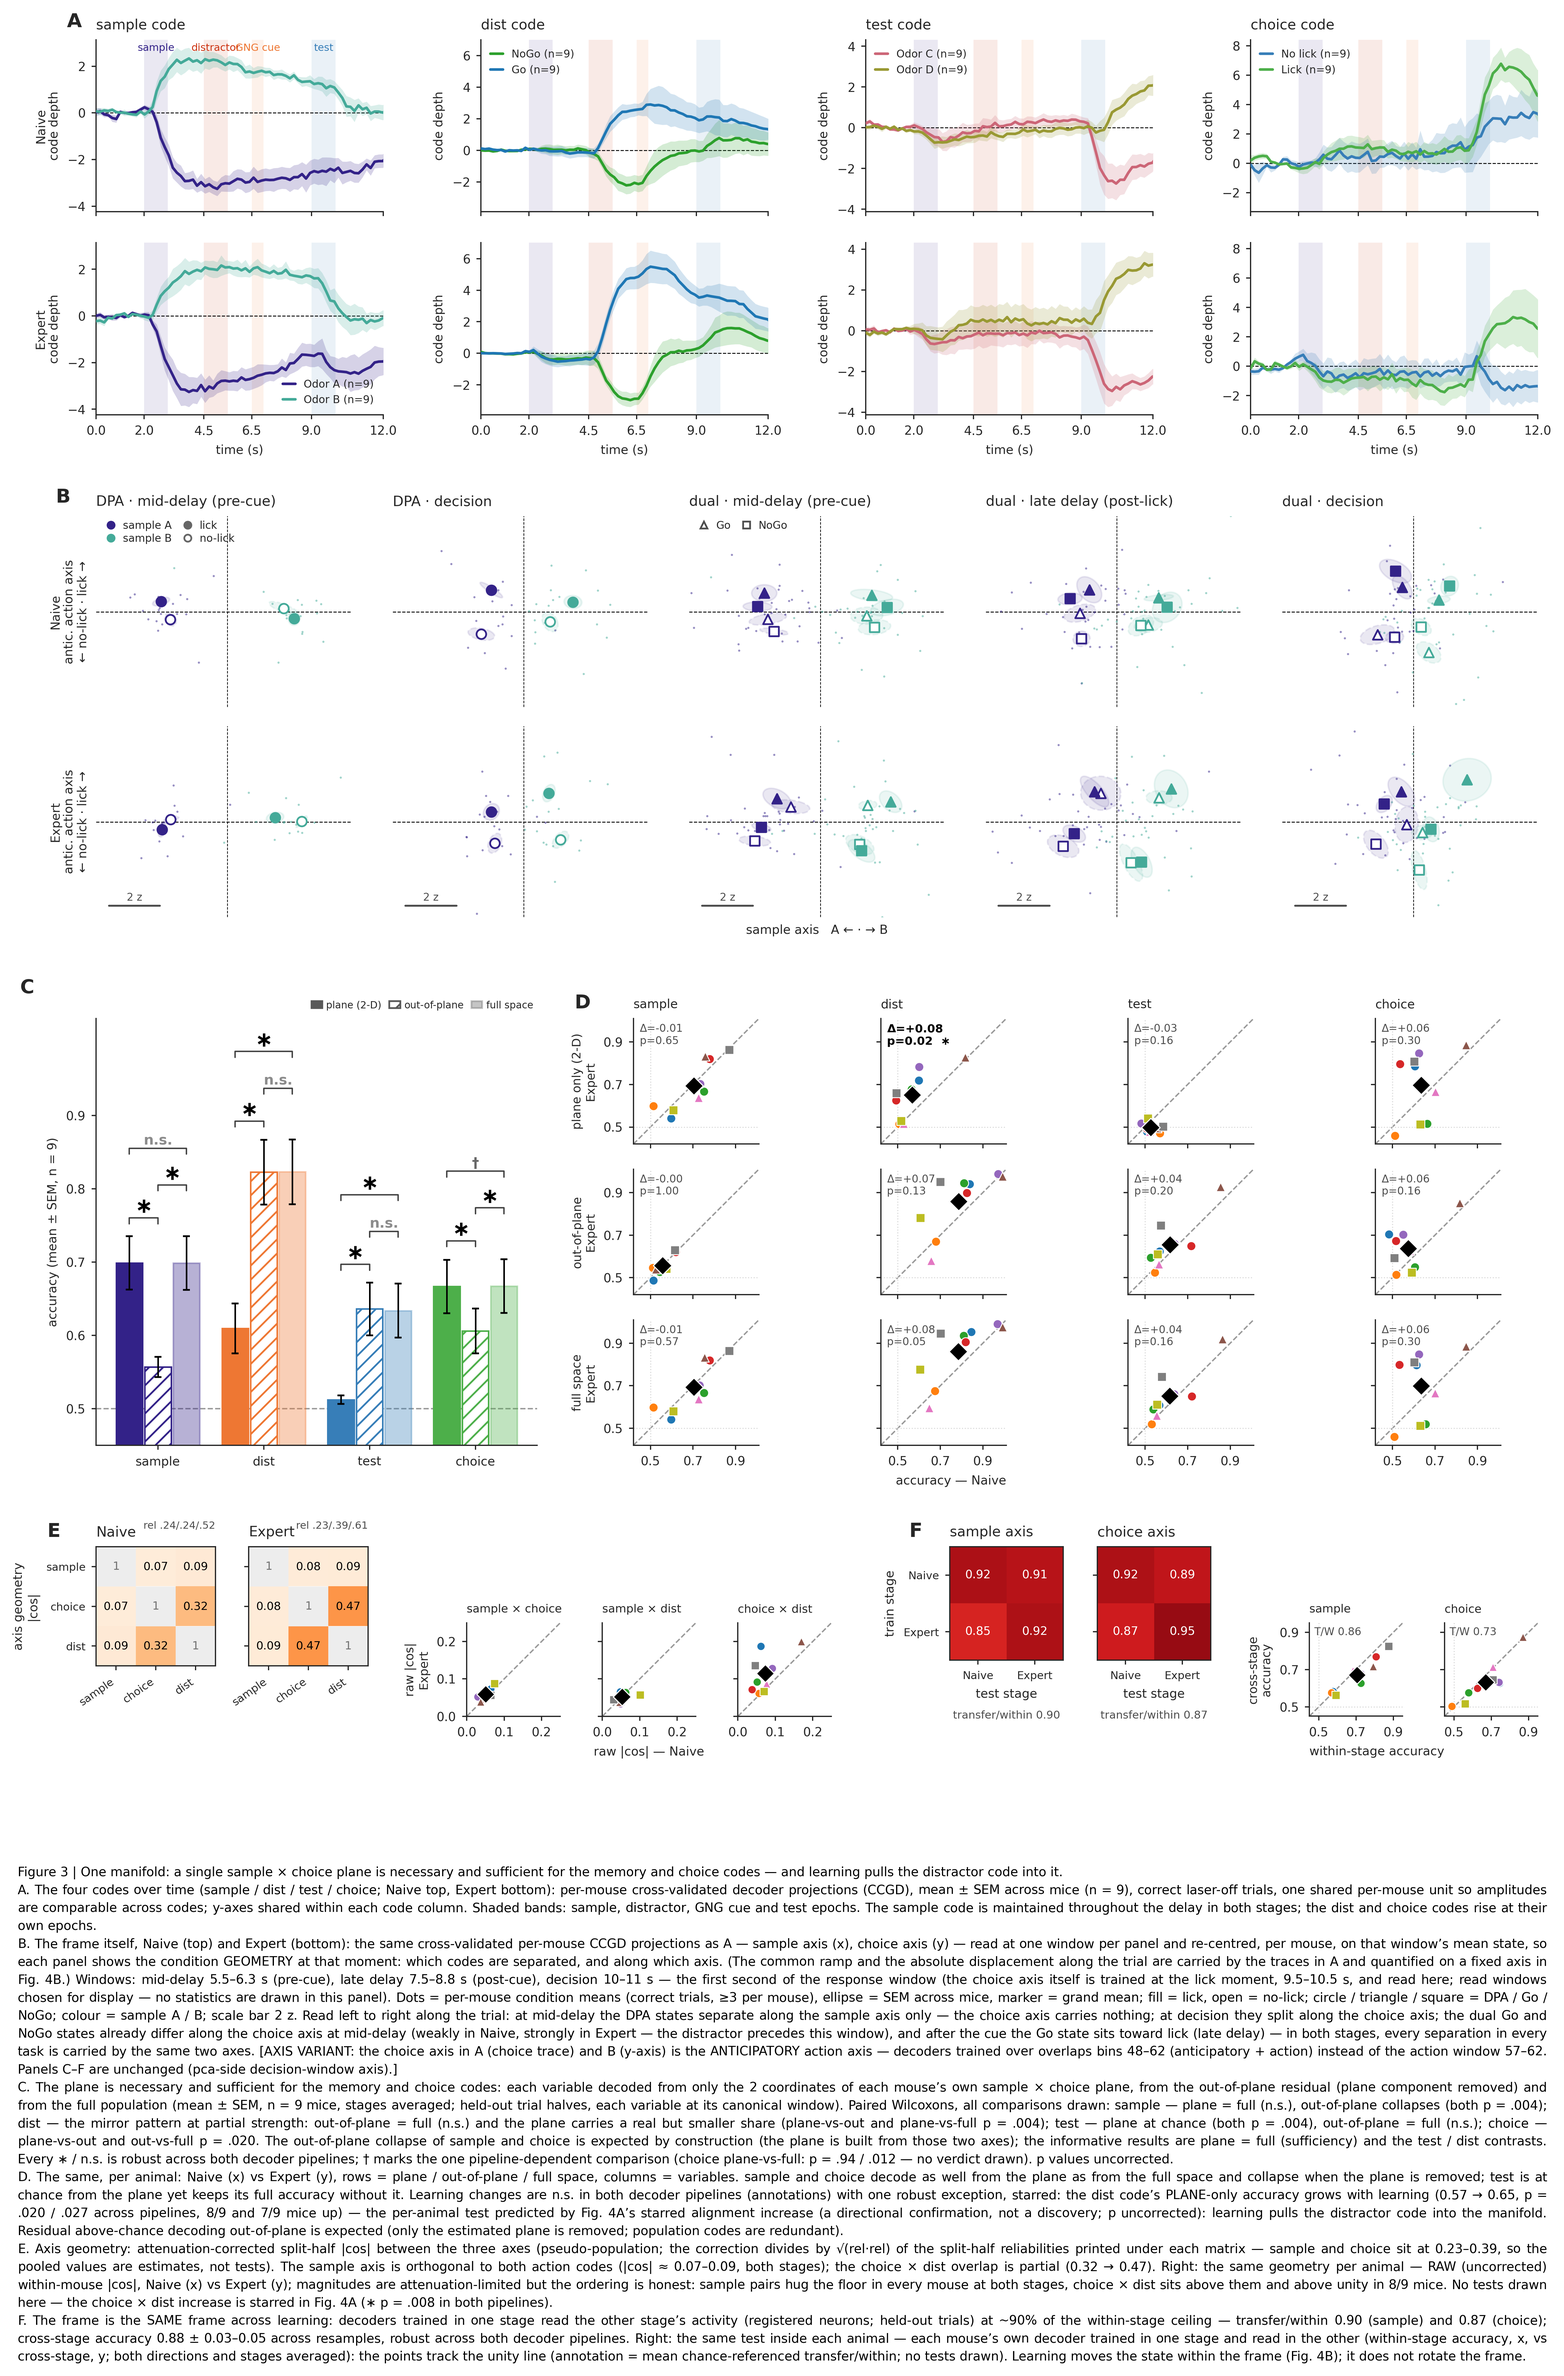
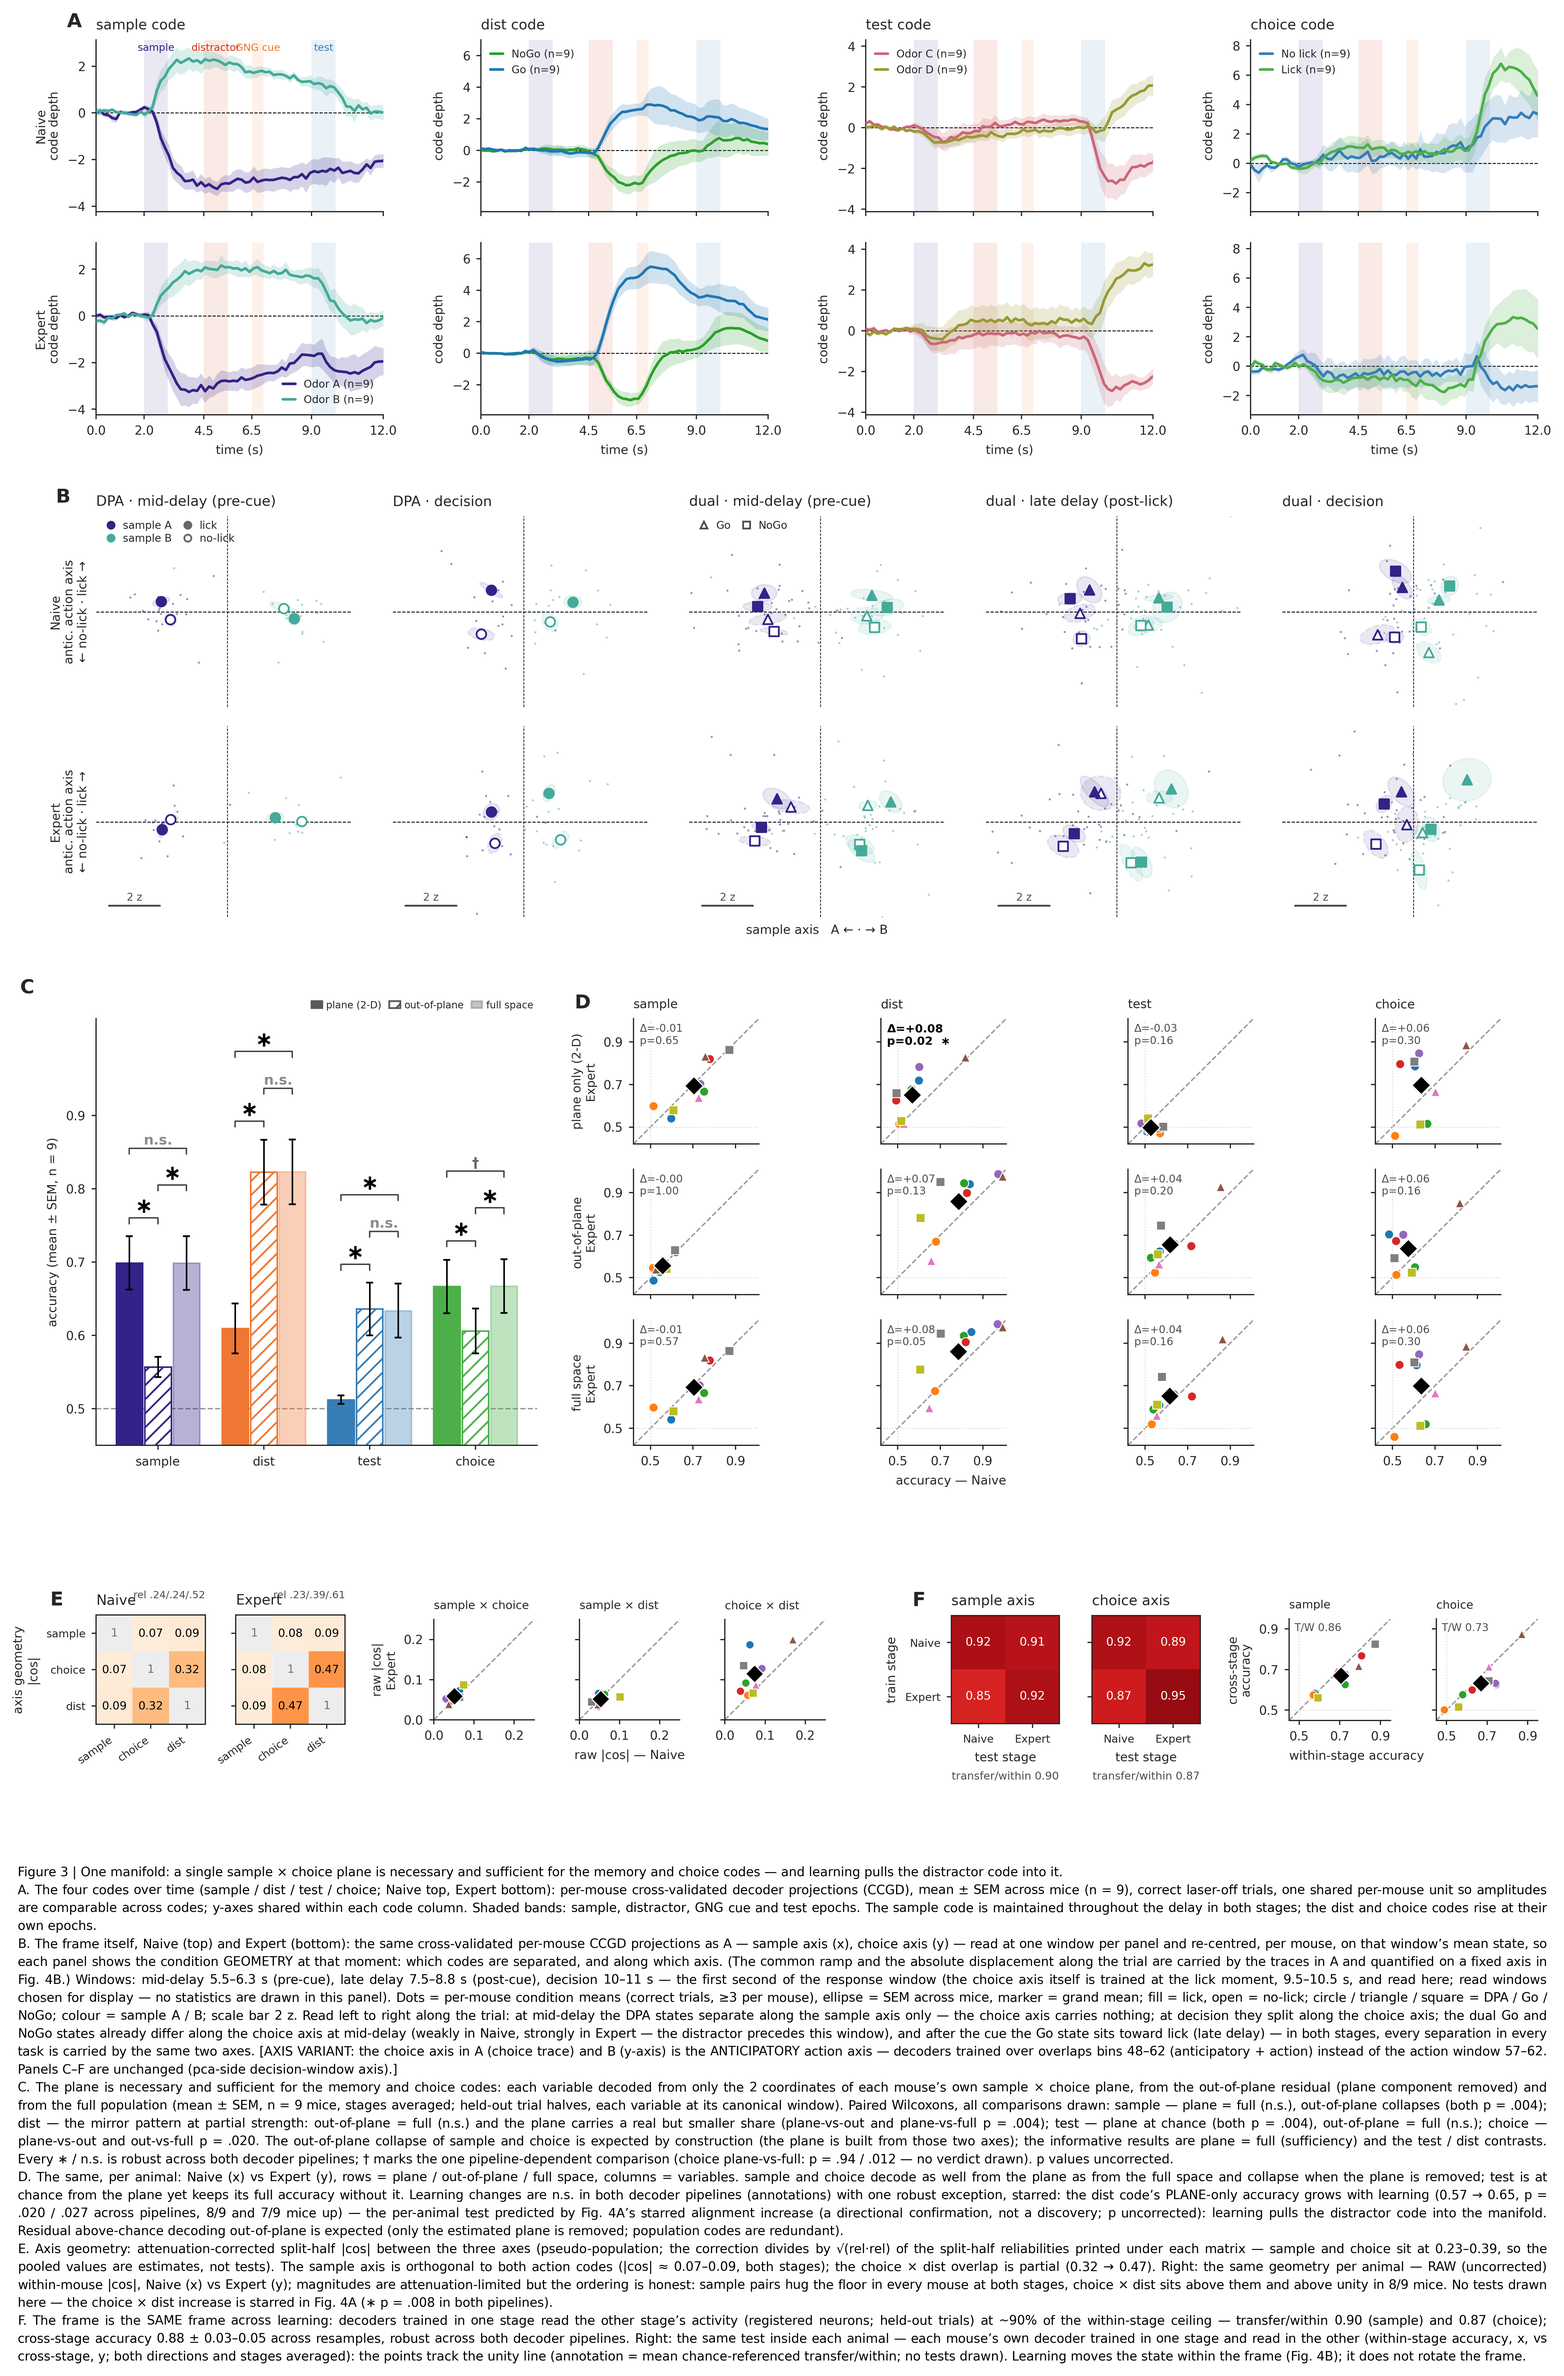
Fig 3 bottom row: centre matrices and scatters on one line, equal panel sizes
The E/F matrices were still NW-anchored (a leftover from the old layout) while the
aspect-locked scatters self-centred, so the row read ragged. All nine axes are now
equal-width slots anchored 'C' - one shared vertical centre line across both blocks.

Claude-Session: https://claude.ai/code/session_01U5815xHXRaRQ7YCxMTgCsM

diff --git a/pca/fig_manifold_main.py b/pca/fig_manifold_main.py
@@ -331,7 +331,7 @@ def panel_b(fig, gsB):
         ax.set_xticks(range(3)); ax.set_xticklabels(labs, fontsize=6.2, rotation=35, ha='right')
         ax.set_yticks(range(3))
         ax.set_yticklabels(labs if j == 0 else [], fontsize=6.2)
-        ax.set_anchor('NW')                             # top line shared with panel D
+        ax.set_anchor('C')                              # vertically centred with the scatters
         ax.set_title(stage, loc='left', fontsize=TITLE_FS)
         if j == 0:
             ax.set_ylabel('axis geometry\n|cos|', fontsize=7)
@@ -378,7 +378,7 @@ def panel_xstage(fig, gsX):
         ax.set_yticks([0, 1])
         ax.set_yticklabels(['Naive', 'Expert'] if k == 0 else [], fontsize=6.2)
         ax.set_title(f'{vn} axis', loc='left', fontsize=TITLE_FS)
-        ax.set_anchor('NW')
+        ax.set_anchor('C')                              # vertically centred with the scatters
         if k == 0:
             ax.set_ylabel('train stage', fontsize=7)
         ax.set_xlabel('test stage', fontsize=7)
@@ -621,10 +621,12 @@ axC = panel_f_spaces(fig, gsC)
 gsD = outer[2, 4:12].subgridspec(3, 4, wspace=0.24, hspace=0.20)   # D = per-mouse 3x4
 axD = panel_e_plane(fig, gsD)
 # bottom row = E (2 matrices + 3 per-mouse scatters) · F (2 matrices + 2 per-mouse scatters);
-# 12 slots with spacer columns between the pooled and per-mouse halves of each block
+# 12 slots: EQUAL panel widths (all nine axes are aspect-locked squares of the same size,
+# anchored 'C' — matrices and scatters share a common vertical centre line), thin spacers
+# between the pooled and per-mouse halves, a wider one between the E and F blocks
 gsBot = outer[3, 0:12].subgridspec(
-    1, 12, wspace=0.55,
-    width_ratios=[1.05, 1.05, 0.10, 0.85, 0.85, 0.85, 0.28, 1.0, 1.0, 0.10, 0.85, 0.85])
+    1, 12, wspace=0.42,
+    width_ratios=[1, 1, 0.15, 1, 1, 1, 0.5, 1, 1, 0.15, 1, 1])
 gsE = gsBot[0, 0:2].subgridspec(1, 2, wspace=0.28)   # E = cosine matrices
 axE = panel_b(fig, gsE)
 gsE2 = gsBot[0, 3:6].subgridspec(1, 3, wspace=0.45)  # E right = per-mouse raw-|cos| scatters
